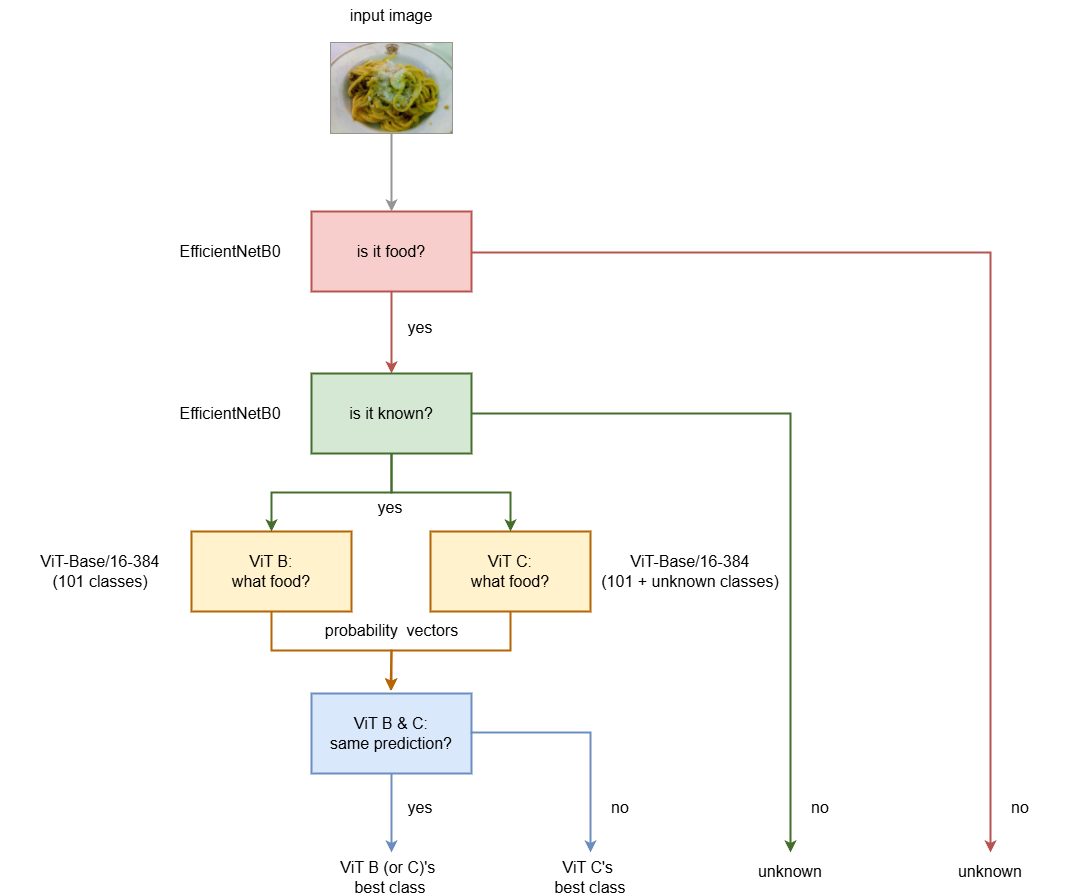
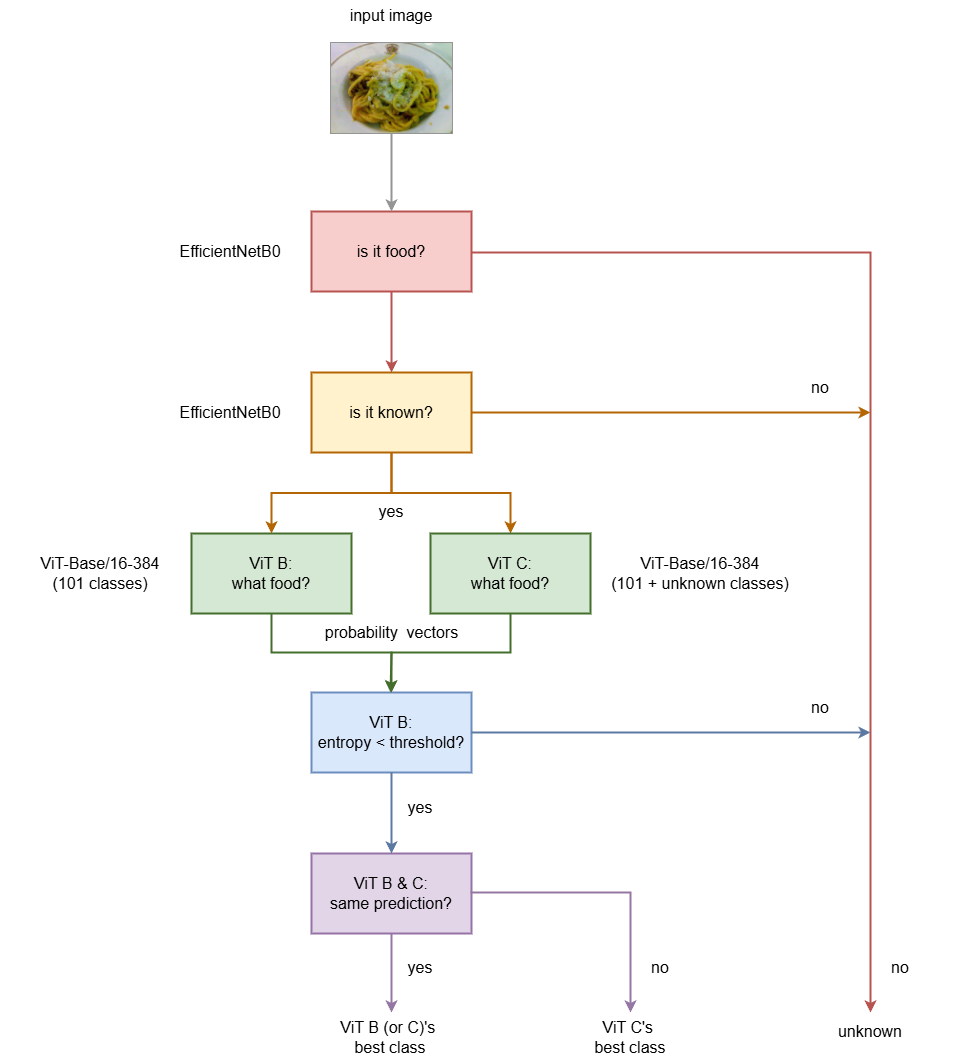
updated block diagram for vit-pro

diff --git a/demo/app.py b/demo/app.py
@@ -172,30 +172,45 @@ def classify_food(image, model=pro_model) -> Tuple[Dict, str, str]:
             # If the picture is food
             if predict(image_eff, effnetb0_model_1)[:,1] >= BINARY_CLASSIF_THR_1:
 
-                image_vit = transforms_vit(image).unsqueeze(0)
-
-                # If ViT Pro
+                # 💎 ViT Pro 💎
                 if model == pro_model:
-
-                    # Pass the transformed image through the model and turn the prediction logits into prediction probabilities
-                    pred_probs_102 = predict(image_vit, vitbase_model_102)
-                    pred_probs_101 = predict(image_vit, vitbase_model_101)
-
-                    # Create a prediction label and prediction probability dictionary for each prediction class
-                    pred_classes_and_probs_102 = {class_names_102[i]: float(pred_probs_102[0][i]) for i in range(num_classes_102)}
-                    pred_classes_and_probs_101 = {class_names_101[i]: float(pred_probs_101[0][i]) for i in range(num_classes_101)}
-                    pred_classes_and_probs_101["unknown"] = 0.0
-
-                    # Get the top predicted class
-                    top_class_102 = max(pred_classes_and_probs_102, key=pred_classes_and_probs_102.get)
-                    sec_class_102 = sorted(pred_classes_and_probs_102.items(), key=lambda x: x[1], reverse=True)[1][0]
-                    top_class_101 = max(pred_classes_and_probs_101, key=pred_classes_and_probs_101.get)                    
 
                     # If the image is likely to be an known category
                     if  predict(image_eff, effnetb0_model_2)[:,1] >= BINARY_CLASSIF_THR_2:
 
+                        # Preproces the image for the ViTs
+                        image_vit = transforms_vit(image).unsqueeze(0)
+
+                        # Pass the transformed image through the model and turn the prediction logits into prediction probabilities
+                        pred_probs_102 = predict(image_vit, vitbase_model_102)
+                        pred_probs_101 = predict(image_vit, vitbase_model_101)
+
+                        # Calculate entropy
+                        entropy_101 = entropy(pred_probs_101)
+
+                        # Create a prediction label and prediction probability dictionary for each prediction class
+                        pred_classes_and_probs_102 = {class_names_102[i]: float(pred_probs_102[0][i]) for i in range(num_classes_102)}
+                        pred_classes_and_probs_101 = {class_names_101[i]: float(pred_probs_101[0][i]) for i in range(num_classes_101)}
+                        pred_classes_and_probs_101["unknown"] = 0.0
+
+                        # Get the top predicted class
+                        top_class_102 = max(pred_classes_and_probs_102, key=pred_classes_and_probs_102.get)
+                        sec_class_102 = sorted(pred_classes_and_probs_102.items(), key=lambda x: x[1], reverse=True)[1][0]
+                        top_class_101 = max(pred_classes_and_probs_101, key=pred_classes_and_probs_101.get)
+
+                        # Check out entropy
+                        if pred_probs_101[0][class_names_101.index(top_class_101)] <= MULTICLASS_CLASSIF_THR and entropy_101 > ENTROPY_THR:
+
+                            # Create prediction label and prediction probability for class unknown and rescale the rest of predictions
+                            pred_classes_and_probs_101["unknown"] = pred_probs_101.max() * 1.25
+                            prob_sum = sum(pred_classes_and_probs_101.values())
+                            pred_classes_and_probs = {key: value / prob_sum for key, value in pred_classes_and_probs_101.items()}
+
+                            # Get the top predicted class
+                            top_class = "unknown"
+                        
                         # Compare the predictions of the two transformer models                    
-                        if ((top_class_101 == sec_class_102) and (top_class_102 == "unknown")) or (top_class_101 == top_class_102):
+                        elif ((top_class_101 == sec_class_102) and (top_class_102 == "unknown")) or (top_class_101 == top_class_102):
                             
                             # Get the probability vector
                             pred_classes_and_probs = pred_classes_and_probs_101
@@ -221,8 +236,11 @@ def classify_food(image, model=pro_model) -> Tuple[Dict, str, str]:
                         # Get the top predicted class
                         top_class = "unknown"
 
-                # ViT Lite
+                # ⚡ ViT Lite ⚡
                 else:
+
+                    # Preproces the image for the ViTs
+                    image_vit = transforms_vit(image).unsqueeze(0)
 
                     # Pass the transformed image through the model and turn the prediction logits into prediction probabilities
                     pred_probs_101 = predict(image_vit, vitbase_model_101) # 101 classes

diff --git a/notebooks/modules/helper_functions.py b/notebooks/modules/helper_functions.py
@@ -141,7 +141,11 @@ def create_dataloaders_for_vit(
     Creates data loaders for the training and test datasets to be used to traing visiton transformers.
 
     Args:
-        vit_model (str): The name of the ViT model to use. Default is "bitbase16".
+        vit_model (str): The name of the ViT model to use. Default is "bitbase16":
+            -bitbase16: ViT-Base/16-224
+            -bitbase16_2: ViT-Base/16-384
+            -bitlarge16: ViT-Large/16-224
+            -bitlarge32: ViT-Large/32-224
         train_dir (str): The path to the training dataset directory. Default is TRAIN_DIR.
         test_dir (str): The path to the test dataset directory. Default is TEST_DIR.
         batch_size (int): The batch size for the data loaders. Default is BATCH_SIZE.
